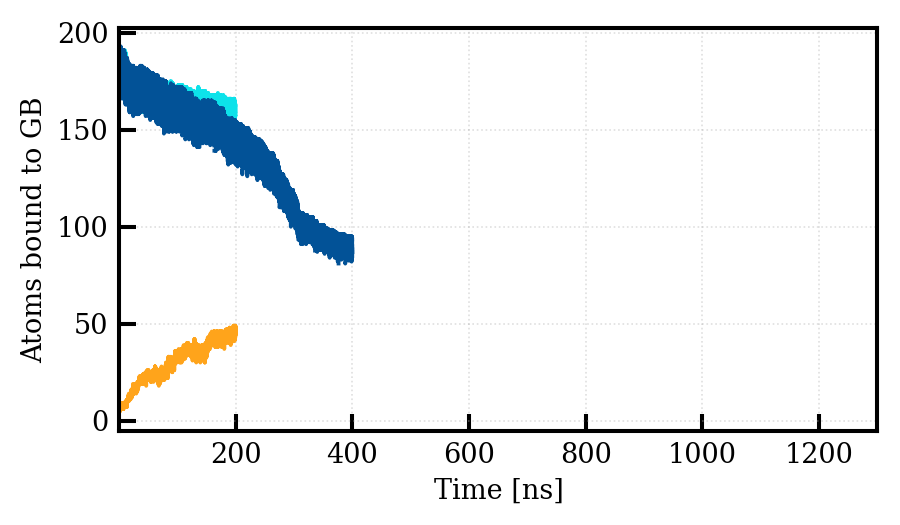
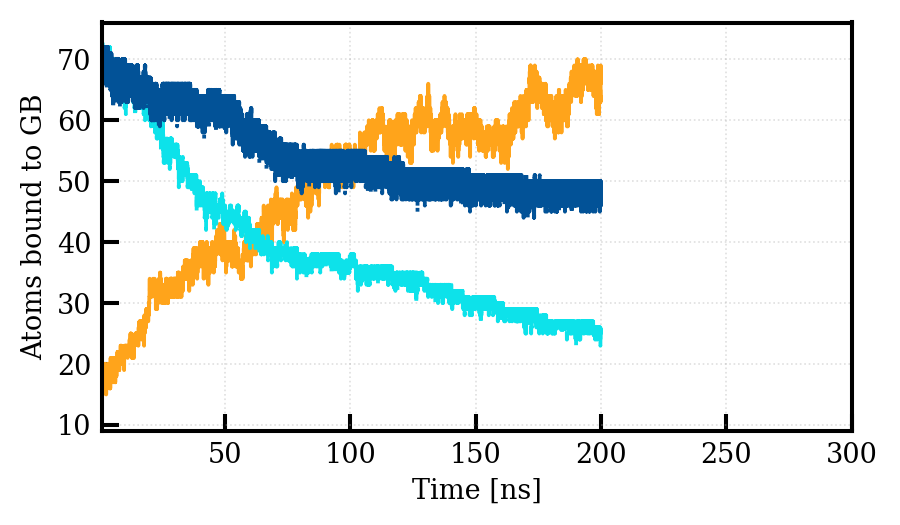
update GB plots

diff --git a/plotting-scripts/plot_GB_isoEx_comp.py b/plotting-scripts/plot_GB_isoEx_comp.py
@@ -19,8 +19,8 @@ def readData(fname, columnsToRead):
     return np.array(data)
 
 # HinVac.out format: Timestep NTinVac NHinVac NTinCell
-tTH_isoEx_500K = readData(path+'yGB_3000W_40H_193T_500K_constH_200ns/HinGB.out', [0,1,2])
-tT_diff_500K = readData(path+'yGB_3000W_0H_193T_500K_400ns/HinGB.out', [0,1])
+tTH_isoEx_500K = readData(path+'yGB_3000W_100H_73T_500K_200ns/HinGB.out', [0,1,2])
+tT_diff_500K = readData(path+'yGB_3000W_0H_73T_500K_200ns/HinGB.out', [0,1])
 
 # Convert timesteps --> time in ns
 cf = 1e-6
@@ -35,7 +35,7 @@ print('Drawing figures ...')
 fsize = [6.0, 3.5]
 
 # Upper x-axis limit
-xulim = 1300.0
+xulim = 300.0
 
 # axis labels
 ylbl = 'Atoms bound to GB'
